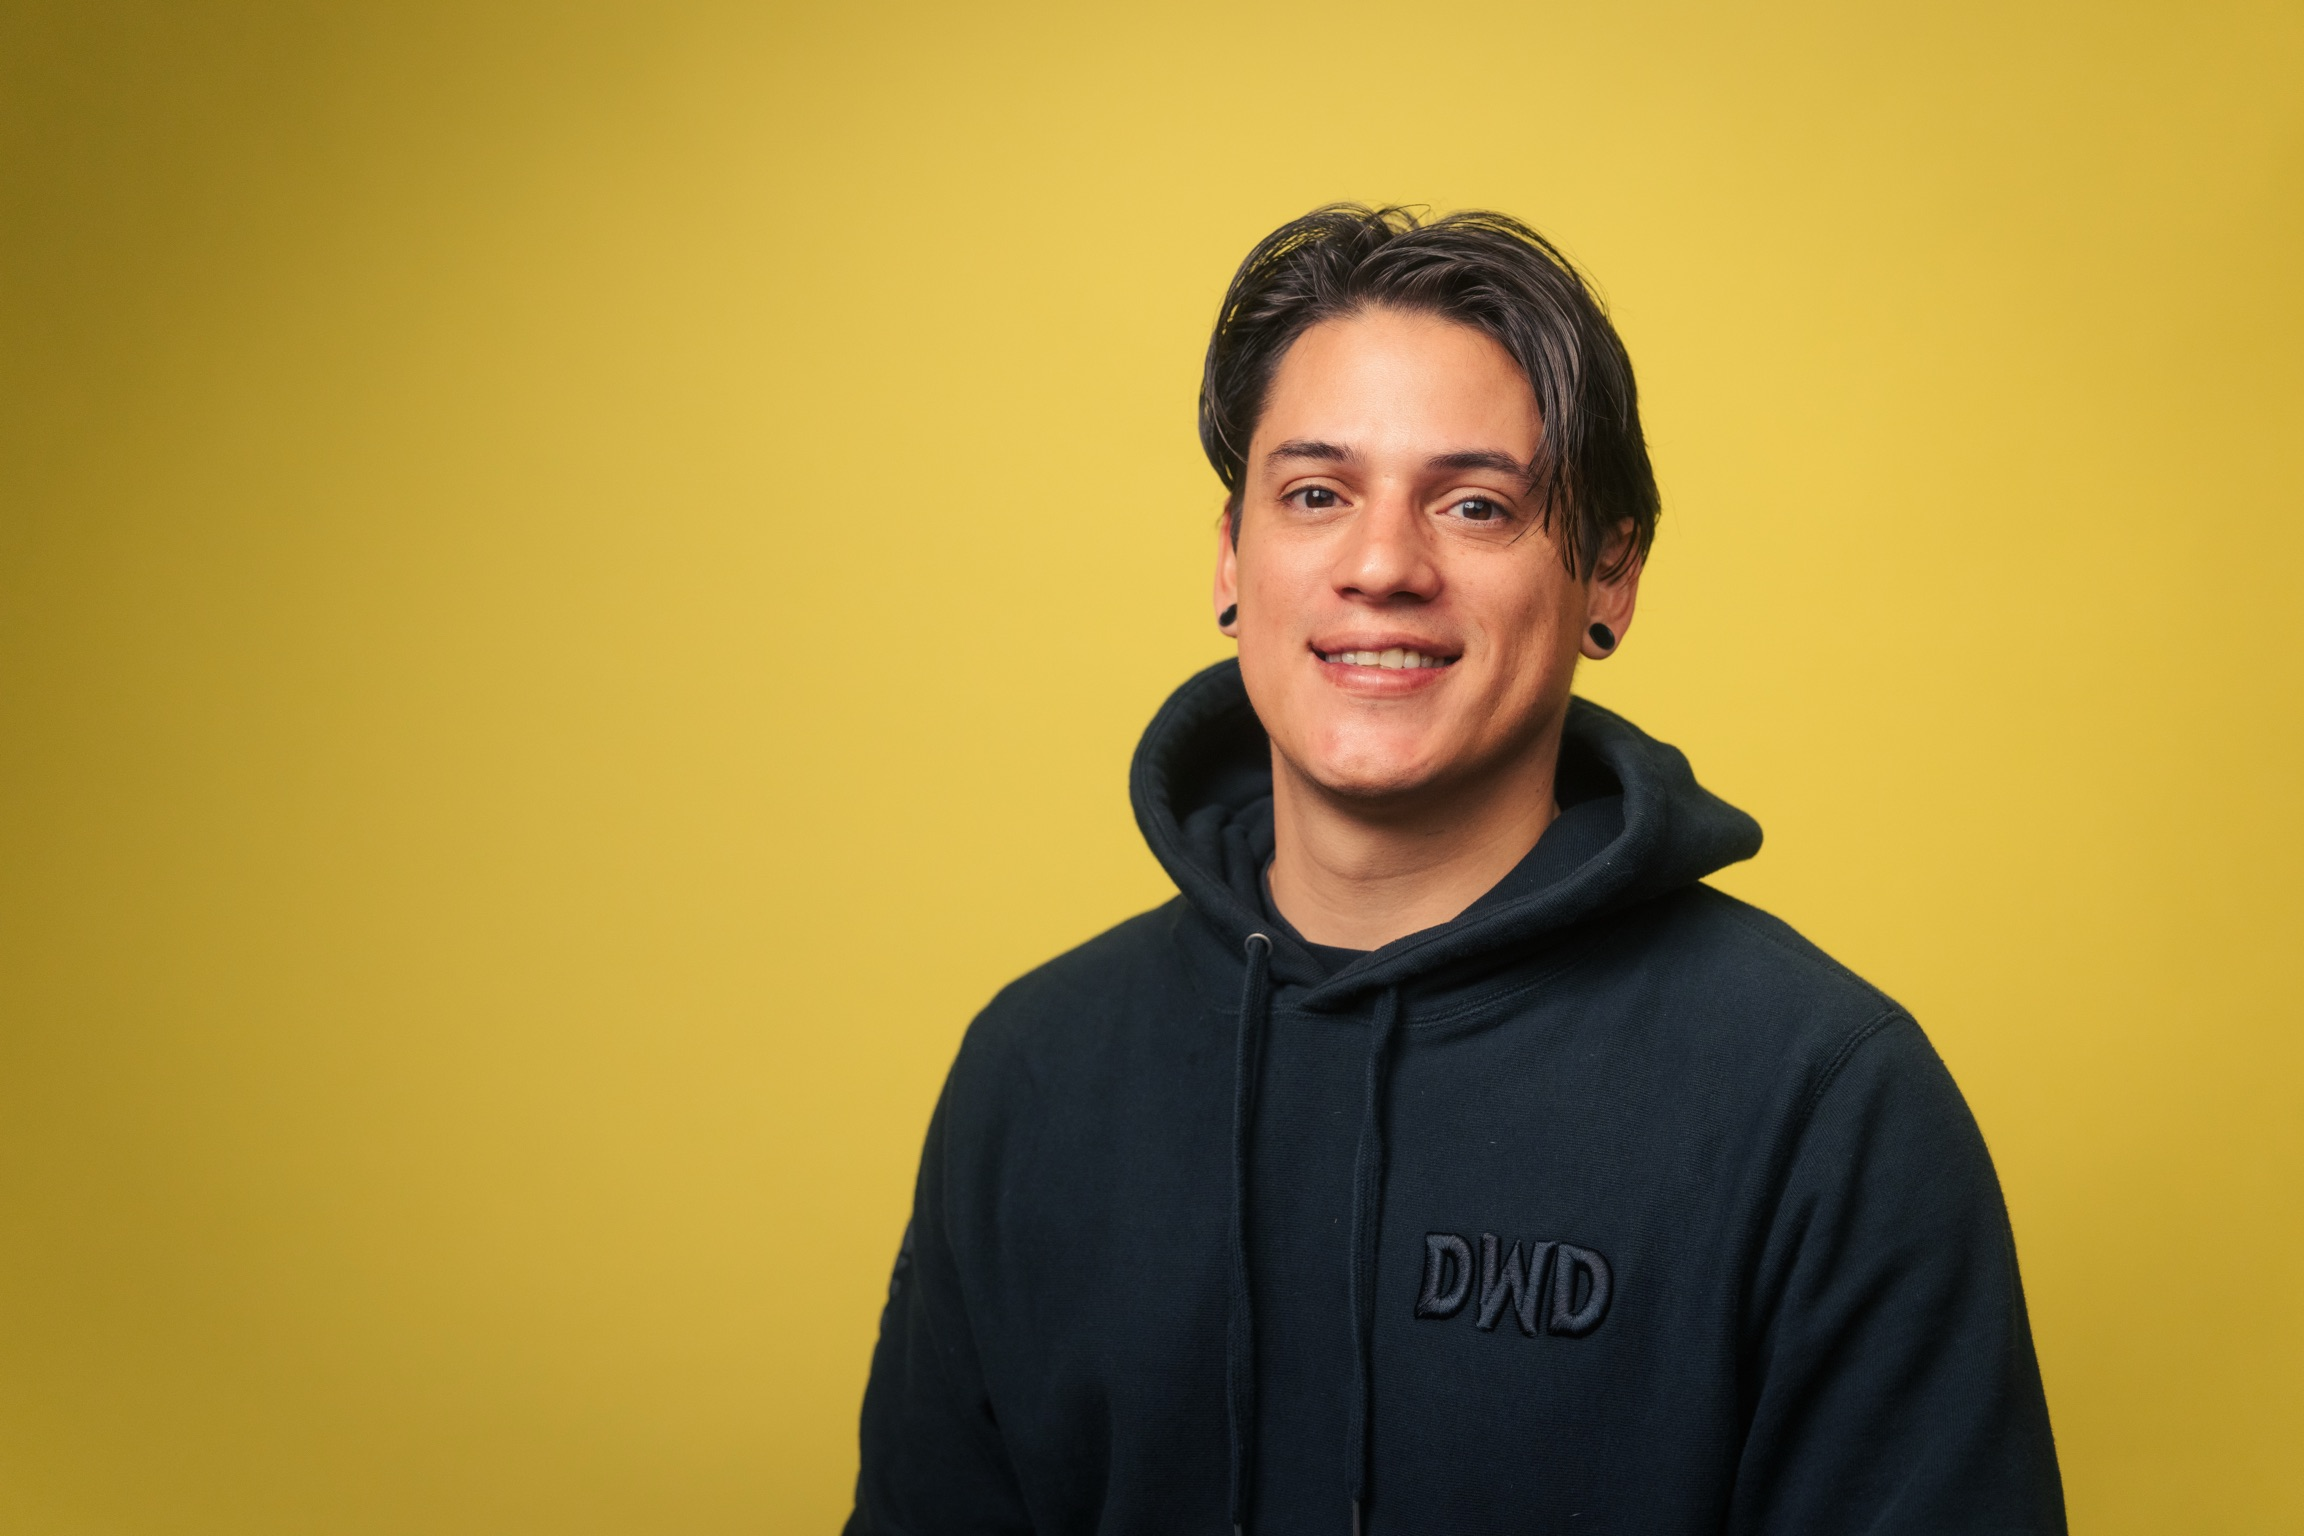
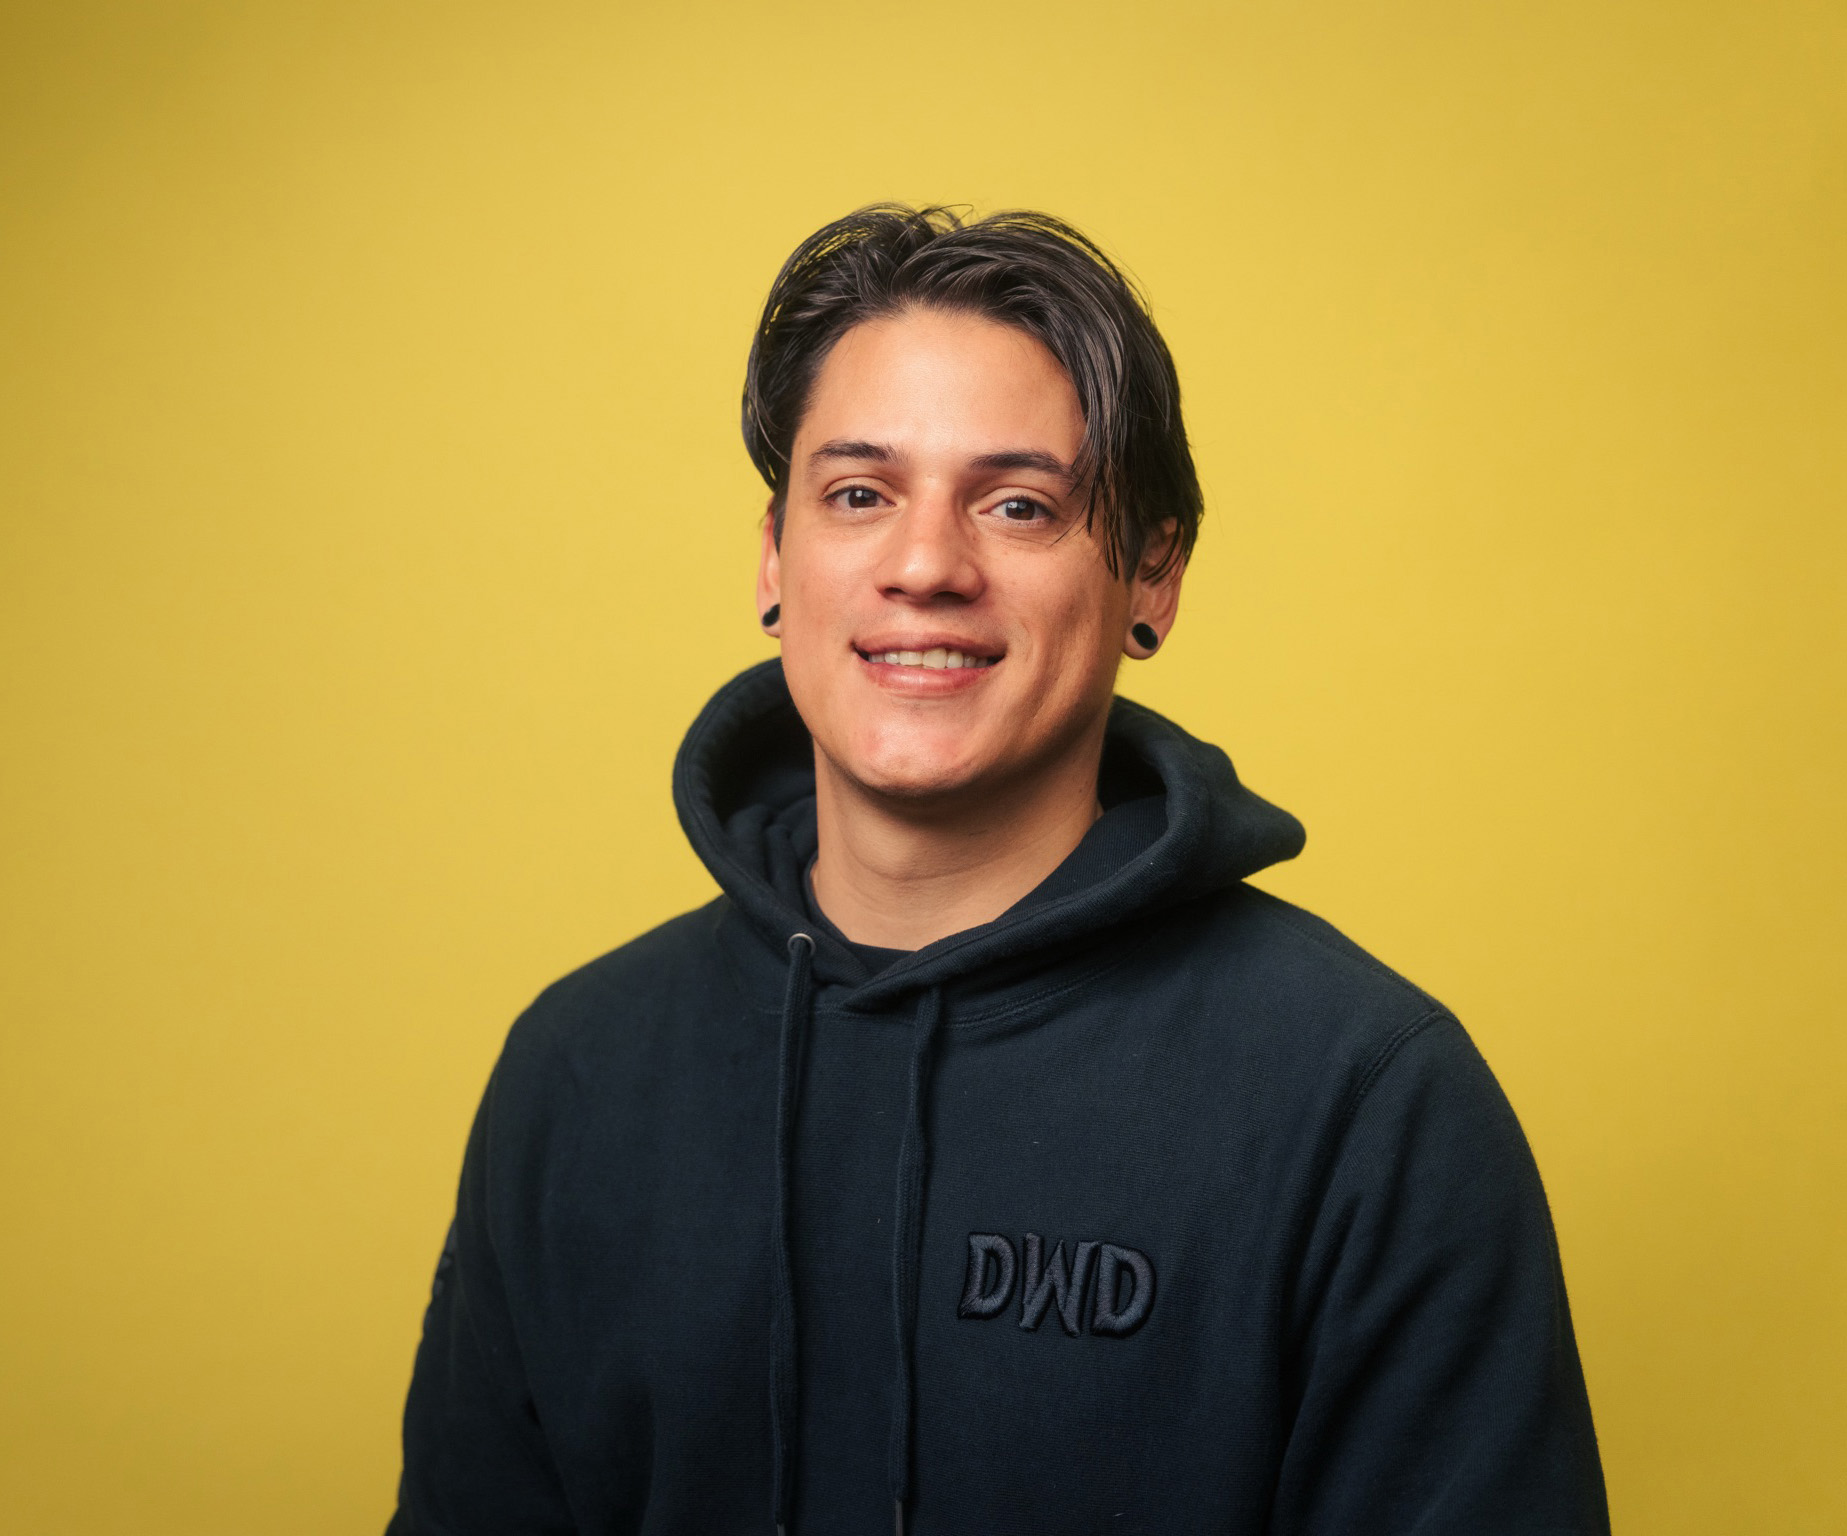
some tweaks

diff --git a/styles.css b/styles.css
@@ -597,21 +597,14 @@
   .video-wrapper {
     position: relative;
     width: 100%;
-    padding-top: 56.25%;
+    
+    padding-top: 50%;
     aspect-ratio: 16 / 9;
     margin: 20px 0;
     border-radius: 12px;
     overflow: hidden;
   }
   
-  .video-wrapper iframe {
-    position: absolute;
-    inset: 0;
-    width: 100%;
-    height: 100%;
-    border: 0;
-  }
-
   .video-wrapper img {
     position: absolute;
     inset: 0;

diff --git a/index.html b/index.html
@@ -149,7 +149,7 @@
     <a href="wip.html" class="card reveal">
       <div class="card-inner">
       <img src="images/SpaceThumbnail.png" alt="Space Game" />
-      <h3>Mindfull Masculinity</h3>
+      <h3>Star Racer</h3>
       <p>Designed and developed a Unity flight simulator with custom game mechanics, 3D models, and terrain.</p>
       </div>
     </a>